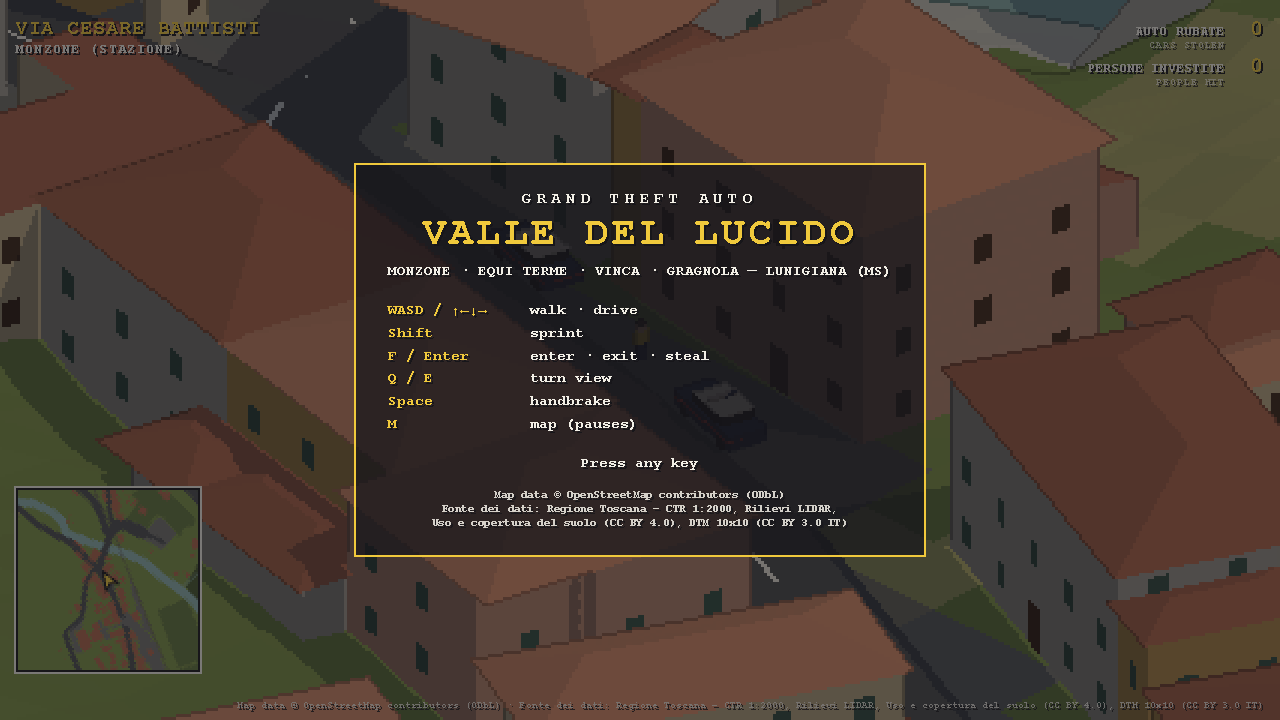
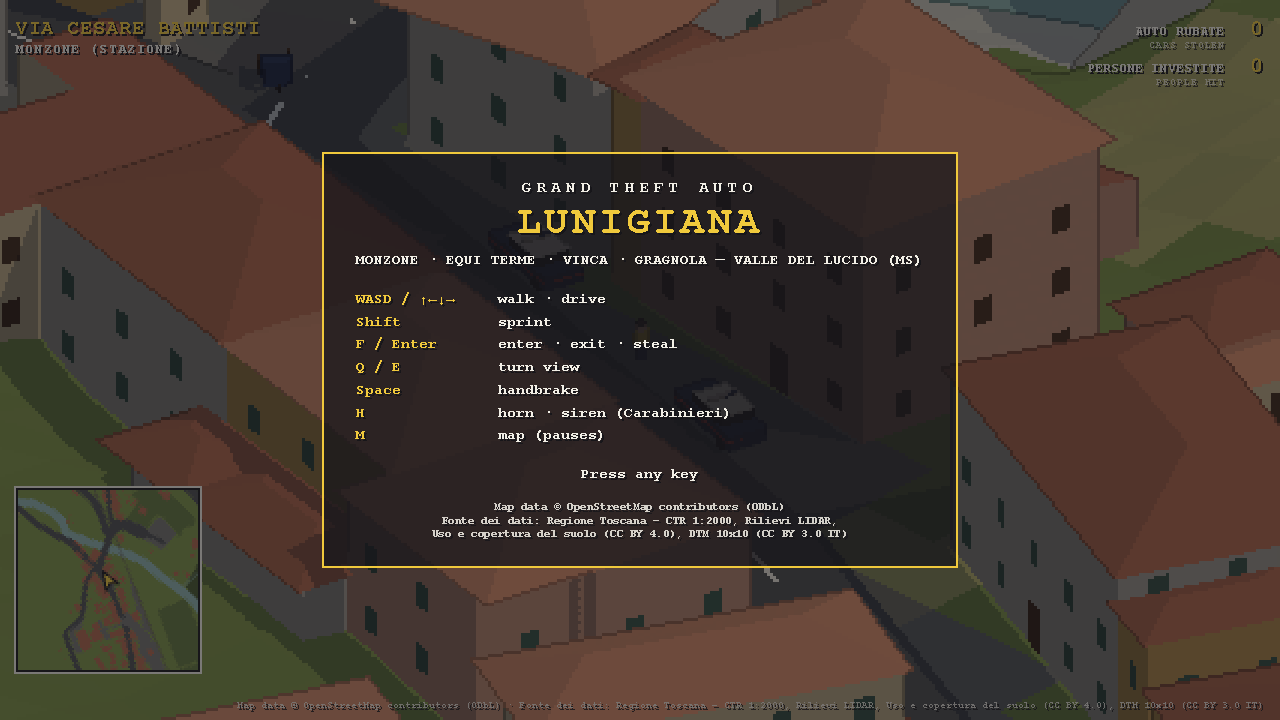
Rename the game to Grand Theft Auto: Lunigiana (#30)
* chore: rename the game to Grand Theft Auto: Lunigiana

- Update titles, README, and the title card
- Rename the package, OSM user-agent, and RT cache directory

* docs: document the full Lunigiana setting and map roadmap

- Warn that the game is early and only the Valle del Lucido is playable today
- Add Lunigiana geography, the ten-part map order, and upcoming landscapes
- Move the fan-project disclaimer up and retitle the existing sections

diff --git a/src/tools/fetch-osm.ts b/src/tools/fetch-osm.ts
@@ -19,7 +19,7 @@ const AREA_KEYS = ["landuse", "natural", "building", "leisure", "amenity"]
 
 const get = async (url: string): Promise<string> => {
   for (let attempt = 0; ; attempt++) {
-    const res = await fetch(url, { headers: { "User-Agent": "grand-theft-auto-vdl map build" } })
+    const res = await fetch(url, { headers: { "User-Agent": "gta-lunigiana map build" } })
     if (res.ok) return res.text()
     if (attempt === 4) throw new Error(`${url}: HTTP ${res.status}`)
     await new Promise((r) => setTimeout(r, 2000 * 2 ** attempt))
@@ -50,6 +50,6 @@ for (const { id } of [...elements.relation.entries()].map(([id, xml]) => ({ id, 
   console.log(`relation ${id}: ${elements.node.size} nodes, ${elements.way.size} ways`)
 }
 const sorted = (m: Map<number, string>) => [...m].sort((a, b) => a[0] - b[0]).map(([, xml]) => `  ${xml.trim()}`)
-const xml = ['<?xml version="1.0" encoding="UTF-8"?>', '<osm version="0.6" generator="grand-theft-auto-vdl fetch-osm">', ...sorted(elements.node), ...sorted(elements.way), ...sorted(elements.relation), "</osm>", ""].join("\n")
+const xml = ['<?xml version="1.0" encoding="UTF-8"?>', '<osm version="0.6" generator="gta-lunigiana fetch-osm">', ...sorted(elements.node), ...sorted(elements.way), ...sorted(elements.relation), "</osm>", ""].join("\n")
 writeFileSync(OUT, gzipSync(xml, { level: 9 }))
 console.log({ nodes: elements.node.size, ways: elements.way.size, relations: elements.relation.size, bytes: xml.length })

diff --git a/index.html b/index.html
@@ -3,7 +3,7 @@
   <head>
     <meta charset="UTF-8" />
     <meta name="viewport" content="width=device-width, initial-scale=1" />
-    <title>Grand Theft Auto: Valle del Lucido</title>
+    <title>Grand Theft Auto: Lunigiana</title>
     <link rel="icon" href="data:," />
     <link rel="stylesheet" href="/src/hud/hud.css" />
   </head>
@@ -32,8 +32,8 @@
     </div>
     <div id="title">
       <div class="card">
-        <h1><small>Grand Theft Auto</small> Valle del Lucido</h1>
-        <p class="sub">Monzone · Equi Terme · Vinca · Gragnola — Lunigiana (MS)</p>
+        <h1><small>Grand Theft Auto</small> Lunigiana</h1>
+        <p class="sub">Monzone · Equi Terme · Vinca · Gragnola — Valle del Lucido (MS)</p>
         <dl class="keys">
           <div><dt>WASD / ↑←↓→</dt><dd>walk · drive</dd></div>
           <div><dt>Shift</dt><dd>sprint</dd></div>

diff --git a/src/tools/fetch-rt.ts b/src/tools/fetch-rt.ts
@@ -25,7 +25,7 @@ import { UCS_CODES } from "./ucs.ts"
 
 const ROOT = join(import.meta.dirname, "../..")
 const OUT = join(ROOT, "data/raw/rt")
-const CACHE = join(tmpdir(), "grand-theft-auto-vdl-rt")
+const CACHE = join(tmpdir(), "gta-lunigiana-rt")
 const BASE = "https://www502.regione.toscana.it/geoscopio/download"
 
 /** Every 2019 CTR 1:2000 sheet that maps ground in the play area (cartoteca layer rt_cartoteca.ctr2k). */

diff --git a/lab.html b/lab.html
@@ -3,7 +3,7 @@
   <head>
     <meta charset="UTF-8" />
     <meta name="viewport" content="width=device-width, initial-scale=1" />
-    <title>Audio lab · Valle del Lucido</title>
+    <title>Audio lab · Grand Theft Auto: Lunigiana</title>
     <link rel="icon" href="data:," />
     <link rel="stylesheet" href="/src/hud/hud.css" />
     <style>

diff --git a/README.md b/README.md
@@ -1,94 +1,112 @@
-# Grand Theft Auto: Valle del Lucido
+# Grand Theft Auto: Lunigiana
+
+> [!WARNING]
+> **Grand Theft Auto: Lunigiana is in early development.** Expect bugs, crashes and rough edges, and expect things to change or break from one version to the next. Today you can play one valley, about 6% of the planned map.
 
 ![Title card](docs/screenshots/title.png)
 
-A small open-world car-theft game in isometric pixel art, set in the real Valle del Lucido in
-Lunigiana, Tuscany. You walk the village streets, steal parked cars (the Carabinieri's Alfa Romeo
-included, from right outside their station), carjack traffic and knock pedestrians over, all on a
-map built from survey data of the actual valley. The view is an isometric camera that turns a
-quarter at a time, with a low-resolution pixel-art look.
+Grand Theft Auto: Lunigiana is an open-world car-theft game in isometric pixel art, set in Lunigiana, the valley of the Magra between Tuscany and Liguria. You walk village streets, steal parked cars (the Carabinieri’s Alfa Romeo included, from right outside their station), carjack traffic and knock pedestrians over, on a map built from survey data of the real places. The isometric camera turns a quarter at a time and renders at low resolution for a pixel-art look.
 
-## The valley
+The game will cover all of Lunigiana, from the beaches at the mouth of the Magra to the Apennine ridge. Today the playable map is one valley of it, the [Valle del Lucido](#the-playable-map-today-the-valle-del-lucido).
 
-The Valle del Lucido is a side valley of the Aulella in eastern Lunigiana, almost entirely in the
-comune of Fivizzano (province of Massa-Carrara). It runs a little over 14 km, from the flat,
-farmed valley floor at Gragnola, where the Lucido flows into the Aulella, up to pastures above
-1,000 m in the northern Apuan Alps, under Pizzo d'Uccello and Monte Sagro. Much of it lies in the
-Apuan Alps Regional Park. Local tradition says the torrent is called *Lucido*, "bright", for its
-clear water.
+This is a fan project. It isn’t affiliated with or endorsed by Rockstar Games or Take-Two Interactive; “Grand Theft Auto” is their trademark.
 
-The Lucido has two branches, the Lucido di Vinca and the Lucido d'Equi, which meet on the valley
-floor at Monzone, under the 18th-century humpback bridge of Santa Lucia. Monzone has two halves:
-Ponte di Monzone along the road and the railway, and Monzone Alto on a rocky spur under the
-church of San Prospero. Up the Equi branch, Equi Terme has sulphurous springs used since Roman
-times, karst caves open to visitors, a rock shelter (the Tecchia di Equi) with traces of
-Neanderthals and cave bears, and the Solco di Equi, a narrow canyon towards Pizzo d'Uccello.
-Downstream, Gragnola, the valley's historic market town, sits below the Malaspina Castello
-dell'Aquila. In the 19th century, marble quarried on Monte Sagro brought the valley a short
-period of prosperity; Monzone station's freight yard served the marble trade, with the stone
-brought down by an aerial cableway. The Lucca–Aulla railway still climbs the valley through
-Gragnola, Monzone and Equi Terme.
+## Where the game is set: Lunigiana
 
-The playable map covers the whole valley, ridge to ridge: 7.8 × 10 km, from Gragnola up to
-1,800 m.
+Lunigiana is the basin of the river Magra and its tributaries. For the game, it’s 21 comuni covering 1,102 km²:
 
-- **Monzone**: the station quarter on Via Cesare Battisti, the Carabinieri station, and the
-  stone lanes of Monzone Alto.
-- **Vinca**: the stone village at the head of the western branch, at the end of the SP59's
-  hairpins, under Pizzo d'Uccello and Monte Sagro.
-- **Equi Terme**: the spa village up the eastern branch, with its own station, and above it the
-  Solco di Equi gorge with the old marble road's tunnels and its quarries.
-- **Gragnola**: the old town at the mouth of the valley, on the SR445 della Garfagnana and the
-  Aulella, with the Castello dell'Aquila on the hill nearby.
-- **The hill villages**: Tenerano, Viano, Pieve di Viano, Colognola, Campiglione and Vezzanello
-  west of the Lucido; Ugliancaldo on the ridge above the Solco.
-- **The Apuan ridge**: Pizzo d'Uccello's north face, the Garnerone, Foce di Vinca, Monte Sagro
-  and Monte Borla, with the white marble quarries of the Sagro basin.
-- Aiola, Mezzana, Codiponte, Casciana and the woods, streams and hairpins in between.
+- **Province of Massa-Carrara, Tuscany**: the 14 Lunigiana comuni, Aulla, Bagnone, Casola in Lunigiana, Comano, Filattiera, Fivizzano, Fosdinovo, Licciana Nardi, Mulazzo, Podenzana, Pontremoli, Tresana, Villafranca in Lunigiana and Zeri
+- **Province of La Spezia, Liguria**: the 7 comuni of the lower Val di Magra, Sarzana, Santo Stefano di Magra, Vezzano Ligure, Arcola, Castelnuovo Magra, Luni and Ameglia
 
-Roads, rivers, the railway, woods and place names come from OpenStreetMap. Buildings (with their
-surveyed eave heights), road widths and surfaces come from Regione Toscana's 1:2000 technical map
-(2019), the terrain from its 1 m LiDAR surveys (2010 and 2012), and the bare rock, pastures and
-quarries from its land-cover map (2019).
+It runs from about 7 km of coast, between Punta Bianca and the Torrente Parmignola, up to the Apennine ridge between Monte Gottero and Monte Belfiore, which rises to 1,978 m on Monte Casarola. The Apuan Alps close it to the south-east.
 
-This is a fan project. It is not affiliated with or endorsed by Rockstar Games or Take-Two
-Interactive; "Grand Theft Auto" is their trademark.
+### How the map grows, part by part
 
-## Screenshots
+The map grows one part at a time, each built from the same survey sources as today’s valley. The parts come in this order, tracked in [#3](https://github.com/mastro993/grand-theft-auto-vdl/issues/3):
+
+1. [Fivizzano, Casola and the upper Aulella](https://github.com/mastro993/grand-theft-auto-vdl/issues/17): the walled town of Fivizzano, the Verrucola fortress and the SS63 hairpins
+2. [Fosdinovo, the Bardine valley and the Apuan foothills](https://github.com/mastro993/grand-theft-auto-vdl/issues/18): the Castello Malaspina on its crag, olive terraces and Colli di Luni vines
+3. [Aulla and the Magra–Aulella–Taverone confluence](https://github.com/mastro993/grand-theft-auto-vdl/issues/19): the Fortezza della Brunella, the first motorway (the A15 della Cisa) and the first wide river
+4. [Sarzana and the lower Val di Magra](https://github.com/mastro993/grand-theft-auto-vdl/issues/20): the first Ligurian part, with the fortresses of Sarzana and the A12–A15 junction
+5. [The coast: Bocca di Magra, Marinella, Luni and Montemarcello](https://github.com/mastro993/grand-theft-auto-vdl/issues/21): the sea, sand beaches, the Magra mouth and ancient Luni
+6. [Bagnone and its valley up to the Sillara–Matto–Marmagna ridge](https://github.com/mastro993/grand-theft-auto-vdl/issues/22): an arcaded borgo, its castles and passes up to 1,794 m
+7. [Comano, the Lagastrello and the Cerreto](https://github.com/mastro993/grand-theft-auto-vdl/issues/23): the Apennine passes above Fivizzano, with the most reliable winter snow in Lunigiana
+8. [The middle Magra: Villafranca, Filattiera, Mulazzo and Pontremoli](https://github.com/mastro993/grand-theft-auto-vdl/issues/24): Pontremoli’s Castello del Piagnaro and the chestnut country
+9. [The Cisa, Brattello and Cirone passes](https://github.com/mastro993/grand-theft-auto-vdl/issues/25): the source of the Magra and the A15’s high viaducts and tunnels
+10. [Zeri, the Gordana and Teglia valleys and the Passo dei Due Santi](https://github.com/mastro993/grand-theft-auto-vdl/issues/26): the Rossano plateau, sheep pastures and the Zum Zeri ski area
+
+Parts 4 and 5 may swap. Before part 1, the engine has to scale: a single map file would exhaust a browser tab’s memory at about 320 km², less than a third of Lunigiana. The map moves into 2 km tiles loaded on demand ([#5](https://github.com/mastro993/grand-theft-auto-vdl/issues/5)). Issues [#4](https://github.com/mastro993/grand-theft-auto-vdl/issues/4) to [#12](https://github.com/mastro993/grand-theft-auto-vdl/issues/12) cover the rest of the groundwork: raw inputs out of git, motorways and other main roads, wide rivers and lakes, terrain where the LiDAR surveys stop, older building maps and the Ligurian sources.
+
+### New landscapes
+
+These landscapes come alongside the parts:
+
+- **Sea, coast and beaches**: the sea at 0 m, sand and pebble beaches, piers and the mouth of the Magra ([#13](https://github.com/mastro993/grand-theft-auto-vdl/issues/13))
+- **Forest types**: chestnut and oak in the valleys, beech above about 1,000 m and pines on the coast ([#14](https://github.com/mastro993/grand-theft-auto-vdl/issues/14))
+- **Olive groves and vineyards**: on the hills, where they render as meadow today ([#15](https://github.com/mastro993/grand-theft-auto-vdl/issues/15))
+- **Snow**: an early-spring snow line on the high Apennines, over bare beech woods ([#16](https://github.com/mastro993/grand-theft-auto-vdl/issues/16))
+
+## The playable map today: the Valle del Lucido
+
+The Valle del Lucido is a side valley of the Aulella in eastern Lunigiana, almost entirely in the comune of Fivizzano (province of Massa-Carrara). It runs a little over 14 km, from the flat, farmed valley floor at Gragnola, where the Lucido flows into the Aulella, up to pastures above 1,000 m in the northern Apuan Alps, under Pizzo d’Uccello and Monte Sagro. Local tradition calls the torrent *Lucido*, “bright”, for its clear water.
+
+The Lucido has two branches, the Lucido di Vinca and the Lucido d’Equi, which meet on the valley floor at Monzone, under the 18th-century humpback bridge of Santa Lucia. Monzone has two halves: Ponte di Monzone along the road and the railway, and Monzone Alto on a rocky spur under the church of San Prospero.
+
+Up the Equi branch, Equi Terme has sulphurous springs used since Roman times, karst caves open to visitors, a rock shelter (the Tecchia di Equi) with traces of Neanderthals and cave bears, and the Solco di Equi, a narrow canyon towards Pizzo d’Uccello.
+
+Downstream, Gragnola, the valley’s historic market town, sits below the Malaspina Castello dell’Aquila. In the 19th century, marble quarried on Monte Sagro brought the valley a short period of prosperity; Monzone station’s freight yard served the marble trade, with the stone brought down by an aerial cableway. The Lucca–Aulla railway still climbs the valley through Gragnola, Monzone and Equi Terme.
+
+The playable map covers the whole valley, ridge to ridge: 7.8 × 10 km, from Gragnola up to 1,800 m. It includes:
+
+- **Monzone**: the station quarter on Via Cesare Battisti, the Carabinieri station, and the stone lanes of Monzone Alto
+- **Vinca**: the stone village at the head of the western branch, at the end of the SP59’s hairpins, under Pizzo d’Uccello and Monte Sagro
+- **Equi Terme**: the spa village up the eastern branch, with its own station, and above it the Solco di Equi gorge with the old marble road’s tunnels and its quarries
+- **Gragnola**: the old town at the mouth of the valley, on the SR445 della Garfagnana and the Aulella, with the Castello dell’Aquila on the hill nearby
+- **The hill villages**: Tenerano, Viano, Pieve di Viano, Colognola, Campiglione and Vezzanello west of the Lucido; Ugliancaldo on the ridge above the Solco
+- **The Apuan ridge**: Pizzo d’Uccello’s north face, the Garnerone, Foce di Vinca, Monte Sagro and Monte Borla, with the white marble quarries of the Sagro basin
+- **Hamlets and back roads**: Aiola, Mezzana, Codiponte and Casciana, with the woods, streams and hairpins in between
+
+Roads, rivers, the railway, woods and place names come from OpenStreetMap. Buildings (with their surveyed eave heights), road widths and surfaces come from Regione Toscana’s 1:2000 technical map (2019), the terrain from its 1 m LiDAR surveys (2010 and 2012), and the bare rock, pastures and quarries from its land-cover map (2019).
+
+## Screenshots of the Valle del Lucido
+
+All screenshots come from today’s map:
 
 | | |
 |---|---|
-| ![On foot beside the Carabinieri's Alfa Romeo Giulia on Via Cesare Battisti, Monzone](docs/screenshots/monzone-carabinieri.png) | ![Driving the stolen Carabinieri car over the Via delle Cave bridge across the Lucido, beside the railway](docs/screenshots/driving.png) |
-| On foot in Monzone, next to the Carabinieri's car | Over the Lucido in the stolen Giulia |
-| ![The full map, opened with M: the whole valley from Gragnola down to Vinca, Pizzo d'Uccello and Monte Sagro](docs/screenshots/full-map.png) | ![Gragnola's old town on the Lucido and the Via Borgo Lucido bridge](docs/screenshots/gragnola.png) |
+| ![On foot beside the Carabinieri’s Alfa Romeo Giulia on Via Cesare Battisti, Monzone](docs/screenshots/monzone-carabinieri.png) | ![Driving the stolen Carabinieri car over the Via delle Cave bridge across the Lucido, beside the railway](docs/screenshots/driving.png) |
+| On foot in Monzone, next to the Carabinieri’s car | Over the Lucido in the stolen Giulia |
+| ![The full map, opened with M: the whole valley from Gragnola down to Vinca, Pizzo d’Uccello and Monte Sagro](docs/screenshots/full-map.png) | ![Gragnola’s old town on the Lucido and the Via Borgo Lucido bridge](docs/screenshots/gragnola.png) |
 | The full map (M) | Gragnola, on the Lucido |
 | ![Equi Terme around Piazza delle Terme](docs/screenshots/equi-terme.png) | ![Monzone Alto with the church of San Prospero and its bell tower](docs/screenshots/monzone-alto.png) |
 | Equi Terme | Monzone Alto and San Prospero |
-| ![Vinca's stone borgo around Sant'Andrea, at the head of the SP59](docs/screenshots/vinca.png) | ![The Solco di Equi: woods, bare marble walls and Cava Cattani above Equi Terme](docs/screenshots/solco-di-equi.png) |
+| ![Vinca’s stone borgo around Sant’Andrea, at the head of the SP59](docs/screenshots/vinca.png) | ![The Solco di Equi: woods, bare marble walls and Cava Cattani above Equi Terme](docs/screenshots/solco-di-equi.png) |
 | Vinca | The Solco di Equi and its quarries |
 
-## Requirements
+## Requirements to run and build the game
 
-- Node 24. It runs the TypeScript tests and map tools directly, with no build step.
-- pnpm 10 (`packageManager` is pinned in `package.json`; `corepack enable` provides it).
-- A browser with WebGL, and Web Audio for the sound.
+You need:
 
-## Run
+- **Node 24**: runs the TypeScript tests and map tools directly, with no build step
+- **pnpm 10**: `packageManager` pins it in `package.json`, and `corepack enable` installs it
+- **A browser with WebGL**: plus Web Audio for the sound
+
+## Run the game locally
+
+Install the dependencies and start the dev server:
 
 ```sh
 pnpm install
 pnpm dev
 ```
 
-Open http://localhost:5173. Every load is a new world. Add `?seed=N` (for example
-`http://localhost:5173/?seed=42`) to replay the same world: the seed drives every random choice,
-so the same seed and the same keys give the same game.
+Then open `http://localhost:5173`. Every load is a new world. Add `?seed=N` (for example `http://localhost:5173/?seed=42`) to replay the same world: the seed drives every random choice, so the same seed and the same keys give the same game.
 
-In dev mode, the backslash key toggles the Ritmo monitor, and http://localhost:5173/lab.html is
-the audio audition page: every sound on a button, its params on sliders, heard from a distance you
-pick (see [docs/audio.md](docs/audio.md#the-audition-page)).
+In dev mode, the backslash key toggles the Ritmo monitor, and `http://localhost:5173/lab.html` opens the audio audition page: every sound on a button, its params on sliders, heard from a distance you pick (see [docs/audio.md](docs/audio.md#the-audition-page)).
 
-## Controls
+## Controls on foot and driving
+
+The same keys walk and drive; the table shows what each does in both modes:
 
 | Key | On foot | Driving |
 |---|---|---|
@@ -100,23 +118,19 @@ pick (see [docs/audio.md](docs/audio.md#the-audition-page)).
 | H | | horn while held; in the Carabinieri car, siren on or off |
 | M | full map (pauses the game); M or Esc closes it | same |
 
-The bindings live in `bindings` in `src/sim/schema.ts`. The HUD shows the street and district you
-are in, cars stolen, people hit, the action the key would take, a speedometer while driving, and
-a minimap. M opens the full map: the whole area north-up with the villages, hamlets and main
-peaks named and your position marked.
+The bindings live in `bindings` in `src/sim/schema.ts`. The HUD shows the street and district you’re in, cars stolen, people hit, the action the key would take, a speedometer while driving, and a minimap. M opens the full map: the whole area north-up with the villages, hamlets and main peaks named and your position marked.
 
-## Sound
+## How the game sounds
 
-Every sound is synthesised in the browser with Web Audio, with no sample files: engines with a
-virtual gearbox, tyres on each surface, horns and the Carabinieri siren, crashes, footsteps,
-voices, wind, crickets, birds, farm dogs, the village church bells striking the hours, and the
-Lucido and its streams. Each sound reaches you through outdoor acoustics: it fades with distance
-and under the background noise, so you hear only what is near; houses and hills muffle it, the air
-dulls it, it shifts in pitch as it passes, far crashes arrive late, and loud ones echo off the
-slopes. The first key or click (the one that dismisses the title card) starts the sound. See
-[docs/audio.md](docs/audio.md).
+The browser synthesises every sound with Web Audio, with no sample files: engines with a virtual gearbox, tyres on each surface, horns and the Carabinieri siren, crashes, footsteps, voices, wind, crickets, birds, farm dogs, the village church bells striking the hours, and the Lucido and its streams.
 
-## Scripts
+Each sound reaches you through outdoor acoustics. It fades with distance and under the background noise, so you hear only what’s near. Houses and hills muffle it, the air dulls it, its pitch shifts as it passes, far crashes arrive late, and loud ones echo off the slopes.
+
+The first key or click, the one that dismisses the title card, starts the sound. See [docs/audio.md](docs/audio.md) for the details.
+
+## Package scripts
+
+Every script runs with `pnpm`:
 
 | Script | What it does |
 |---|---|
@@ -131,7 +145,9 @@ slopes. The first key or click (the one that dismisses the title card) starts th
 | `pnpm fetch-osm` | downloads the OpenStreetMap extract again into `data/raw/lunigiana.osm.gz` |
 | `pnpm fetch-rt` | downloads the Regione Toscana sources again into `data/raw/rt` |
 
-## Layout
+## Repository layout
+
+The simulation, the browser hosts and the map tools live in separate folders:
 
 | Path | Contents |
 |---|---|
@@ -150,67 +166,40 @@ slopes. The first key or click (the one that dismisses the title card) starts th
 
 ## Rebuilding the map
 
+Rebuild the map from the pinned inputs with one command:
+
 ```sh
 pnpm map
 ```
 
-The build reads only `data/raw` and takes about 7.5 s. Its output is deterministic: with the
-same inputs, `monzone.json` (about 36 MB) comes out byte-identical. Never edit `monzone.json`
-by hand.
+The build reads only `data/raw` and takes about 7.5s. Its output is deterministic: with the same inputs, `monzone.json` (about 36 MB) comes out byte-identical. Never edit `monzone.json` by hand.
 
-Inputs in `data/raw`:
+The inputs in `data/raw` are:
 
-- `lunigiana.osm.gz`: an OpenStreetMap API 0.6 extract of the play area plus 100 m (lat
-  44.1060–44.1977, lon 10.0925–10.1925), written by `pnpm fetch-osm` (`src/tools/fetch-osm.ts`)
-  from 4 × 4 `https://api.openstreetmap.org/api/0.6/map?bbox=...` tiles. Every land-use, natural,
-  building, leisure or amenity multipolygon is fetched whole with
-  `https://api.openstreetmap.org/api/0.6/relation/<id>/full`, because most of a forest's member
-  ways lie outside the play area. Elements are merged by id and sorted, so the same OSM data
-  always gives the same file.
-- `rt/`: Regione Toscana data from the Geoscopio cartoteca, written by `pnpm fetch-rt`
-  (`src/tools/fetch-rt.ts`, which needs `unzip`; the download URLs are pinned there):
-  - `ctr/<sheet>_<layer>.shp.gz` + `.dbf.gz`: CTR 1:2000 (2019), the 25 sheets that map ground
-    in the play area (23D11–15, 23D18–21, 23D26–31, 23D34–37, 23D43, 23D46, 23D47, 23D53–55),
-    layers `AED` (buildings with eave elevations), `AGE` (garages, ruins), `AVI` (road surfaces
-    with street names) and `AZR` (the area each sheet maps).
-  - `dtm.bin` + `dtm.json`: the 1 m LiDAR terrain model, 46 tiles of the 2010 flight and 19 of
-    the 2012 flight (Monte Sagro and the Carrara side), mosaicked, cropped to the play area plus
-    32 m and averaged to 2 m cells. The 0.65 km² no flight covers come from the 10 m DTM.
-  - `ucs.json.gz`: the land cover 1:10 000 (2019) polygons the build uses (quarries, bare rock,
-    sparse vegetation, pastures, heath), from the Regione Toscana WFS.
+- `lunigiana.osm.gz`: an OpenStreetMap API 0.6 extract of the play area plus 100 m (lat 44.1060–44.1977, lon 10.0925–10.1925), written by `pnpm fetch-osm` (`src/tools/fetch-osm.ts`) from 4 × 4 `https://api.openstreetmap.org/api/0.6/map?bbox=…` tiles. It fetches every land-use, natural, building, leisure or amenity multipolygon whole with `https://api.openstreetmap.org/api/0.6/relation/<id>/full`, because most of a forest’s member ways lie outside the play area. It merges the elements by id and sorts them, so the same OSM data always gives the same file.
+- `rt/`: Regione Toscana data from the Geoscopio cartoteca, written by `pnpm fetch-rt` (`src/tools/fetch-rt.ts`, which needs `unzip`; the download URLs are pinned there):
+  - `ctr/<sheet>_<layer>.shp.gz` + `.dbf.gz`: CTR 1:2000 (2019), the 25 sheets that map ground in the play area (23D11–15, 23D18–21, 23D26–31, 23D34–37, 23D43, 23D46, 23D47, 23D53–55), layers `AED` (buildings with eave elevations), `AGE` (garages, ruins), `AVI` (road surfaces with street names) and `AZR` (the area each sheet maps).
+  - `dtm.bin` + `dtm.json`: the 1 m LiDAR terrain model, 46 tiles of the 2010 flight and 19 of the 2012 flight (Monte Sagro and the Carrara side), mosaicked, cropped to the play area plus 32 m and averaged to 2 m cells. The 0.65 km² no flight covers come from the 10 m DTM.
+  - `ucs.json.gz`: the land cover 1:10 000 (2019) polygons the build uses (quarries, bare rock, sparse vegetation, pastures, heath), from the Regione Toscana WFS.
 
-Downloading the OSM data again pulls current edits, so the map changes. The files in `data/raw`
-are what pins it. `node src/tools/preview-map.ts` draws a top-down PNG of the built map (see
-[docs/map.md](docs/map.md)).
+Downloading the OSM data again pulls current edits, so the map changes; the files in `data/raw` pin it. `node src/tools/preview-map.ts` draws a top-down PNG of the built map (see [docs/map.md](docs/map.md)).
 
 ## Data attribution and licences
 
-- Map data © OpenStreetMap contributors, available under the Open Database License (ODbL) 1.0:
-  https://www.openstreetmap.org/copyright. `monzone.json` is a derived database and stays under
-  the ODbL.
-- Buildings, road surfaces, elevation and land cover: "Fonte dei dati: Regione Toscana – Rilievi
-  LIDAR", the Carta Tecnica Regionale 1:2000 and the Uso e copertura del suolo 2019, under
-  Creative Commons Attribution 4.0 (https://creativecommons.org/licenses/by/4.0/), and the DTM
-  10x10 metri, under Creative Commons Attribution 3.0 Italia
-  (https://creativecommons.org/licenses/by/3.0/it/), from the Geoscopio cartoteca:
-  https://www502.regione.toscana.it/geoscopio/cartoteca.html.
+The map uses open data under these licences:
+
+- **OpenStreetMap**: map data © OpenStreetMap contributors, available under the [Open Database License (ODbL) 1.0](https://www.openstreetmap.org/copyright). `monzone.json` is a derived database and stays under the ODbL.
+- **Regione Toscana**: buildings, road surfaces, elevation and land cover, “Fonte dei dati: Regione Toscana – Rilievi LIDAR”, the Carta Tecnica Regionale 1:2000 and the Uso e copertura del suolo 2019, under [Creative Commons Attribution 4.0](https://creativecommons.org/licenses/by/4.0/), and the DTM 10x10 metri, under [Creative Commons Attribution 3.0 Italia](https://creativecommons.org/licenses/by/3.0/it/), from the [Geoscopio cartoteca](https://www502.regione.toscana.it/geoscopio/cartoteca.html).
 
 The game shows these credits on the title card and in the HUD.
 
-Sources for "The valley": [Grotte di Equi, *La Valle del Lucido*](https://grottediequi.it/territorio/la-valle-del-lucido/),
-[*Il nome Valle del Lucido*](https://aipiedidelleapuane.wordpress.com/2017/02/28/il-nome-valle-del-lucido/),
-the Italian Wikipedia pages for [Monzone](https://it.wikipedia.org/wiki/Monzone),
-[Equi Terme](https://it.wikipedia.org/wiki/Equi_Terme), [Gragnola](https://it.wikipedia.org/wiki/Gragnola_(Fivizzano)),
-[the Aulella](https://it.wikipedia.org/wiki/Aulella) and
-[Monzone station](https://it.wikipedia.org/wiki/Stazione_di_Monzone-Monte_dei_Bianchi-Isolano),
-[Visit Tuscany: Equi Terme](https://www.visittuscany.com/en/towns-and-villages/equi-terme/), and the
-valley study in [*ARQ*](https://arqarqt.revistas.csic.es/index.php/arqarqt/article/download/39/36/37).
+Sources for the description of Lunigiana and the Valle del Lucido: the Italian Wikipedia pages for [Lunigiana](https://it.wikipedia.org/wiki/Lunigiana), [Monzone](https://it.wikipedia.org/wiki/Monzone), [Equi Terme](https://it.wikipedia.org/wiki/Equi_Terme), [Gragnola](https://it.wikipedia.org/wiki/Gragnola_(Fivizzano)), [the Aulella](https://it.wikipedia.org/wiki/Aulella) and [Monzone station](https://it.wikipedia.org/wiki/Stazione_di_Monzone-Monte_dei_Bianchi-Isolano), [Grotte di Equi, *La Valle del Lucido*](https://grottediequi.it/territorio/la-valle-del-lucido/), [*Il nome Valle del Lucido*](https://aipiedidelleapuane.wordpress.com/2017/02/28/il-nome-valle-del-lucido/), [Visit Tuscany: Equi Terme](https://www.visittuscany.com/en/towns-and-villages/equi-terme/), and the valley study in [*ARQ*](https://arqarqt.revistas.csic.es/index.php/arqarqt/article/download/39/36/37).
 
-## Documentation
+## Further documentation
 
-- [docs/architecture.md](docs/architecture.md): simulation and host, schedules, state, input,
-  rendering, audio, HUD and checks.
-- [docs/audio.md](docs/audio.md): how the game sounds and why: data flow, the acoustics, every
-  sound, the calibration, the audition page and tests.
-- [docs/map.md](docs/map.md): the map pipeline, the JSON format and the data's limits.
-- [docs/gameplay.md](docs/gameplay.md): on foot, vehicles, traffic, pedestrians, score and tuning.
+The `docs/` folder explains how the game works:
+
+- [docs/architecture.md](docs/architecture.md): simulation and host, schedules, state, input, rendering, audio, HUD and checks
+- [docs/audio.md](docs/audio.md): how the game sounds and why: data flow, the acoustics, every sound, the calibration, the audition page and tests
+- [docs/map.md](docs/map.md): the map pipeline, the JSON format and the data’s limits
+- [docs/gameplay.md](docs/gameplay.md): on foot, vehicles, traffic, pedestrians, score and tuning
